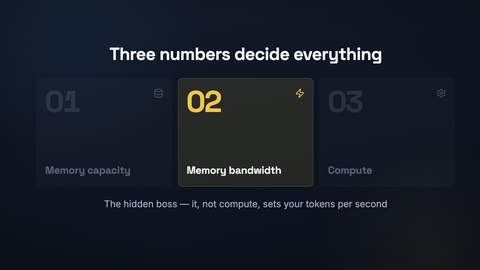
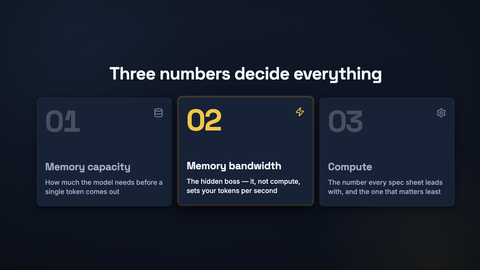
rundown: the detail moves into the card, and a beat moves ink instead of light
The detail line used to sit in a band under the row, on the argument that a card
which grew when it lit would reflow the row. The reasoning was right about
reflow and wrong about the remedy: a fixed slot inside the card, filled from the
first frame and merely brightened on the beat, does not reflow either — and a
paused frame is then a row of finished cards rather than a row of labels with
one caption underneath. The band was 110 pixels held empty for four beats out of
five.

The quiet cards keep their surface and lose only their ink. Fading a card to 0.5
works on a dark stage, where what recedes is a panel lighter than the ground; on
paper the card is the brightest thing in the frame, so the same fade bleaches it
and a row of four reads as one card and three that failed to load. Surface and
hairline now come from the theme's own per-mode tokens, so neither mode needs a
branch. The lit card lifts four pixels and takes a hard accent ring rather than a
blurred halo, which on white is just a grubby edge.

diff --git a/renderer/src/components/RundownScene.tsx b/renderer/src/components/RundownScene.tsx
@@ -1,6 +1,6 @@
 import {interpolate, spring, useCurrentFrame, useVideoConfig} from 'remotion';
 import {FPS} from '../types';
-import {ResolvedTheme, withAlpha} from '../theme/theme';
+import {ResolvedTheme, seat, withAlpha} from '../theme/theme';
 import {Stage, STAGE_W} from './Stage';
 import {iconFor} from './icons';
 
@@ -16,9 +16,22 @@ import {iconFor} from './icons';
 // a bullet, and at this size the row is legible as "three things" from across a
 // room, before any word has been read.
 //
-// The detail line lives under the row rather than inside the card, because a
-// card that grows when it lights would reflow the whole row and the eye would
-// lose its place. The row is fixed furniture; only brightness moves.
+// The detail line lives INSIDE the card, and it is there from the first frame.
+//
+// It used to sit under the row, on the argument that a card which grew when it lit
+// would reflow the row and the eye would lose its place. That reasoning was right
+// about reflow and wrong about where to put the line: a fixed slot inside the card,
+// filled from the start and merely brightened on the beat, does not reflow either —
+// and it means a paused frame is a row of finished cards rather than a row of
+// labels with one caption underneath. The band under the row was also 110 pixels
+// held empty for four beats out of five.
+//
+// What a beat moves is INK, never opacity. A card faded to 0.5 on a dark stage
+// recedes, because what fades is a panel lighter than the ground behind it; on
+// paper the card is the brightest thing in the frame, so the same fade bleaches it
+// into the page and a row of four reads as one card and three that failed to load.
+// The surface and its hairline come from the theme's own tokens, which are derived
+// per mode, so the card is a card in both and neither needs a branch here.
 
 const COL_W = Math.min(STAGE_W, 1620);
 
@@ -105,6 +118,16 @@ export const RundownScene: React.FC<{
               extrapolateLeft: 'clamp',
               extrapolateRight: 'clamp',
             });
+            // The lit card lifts four pixels on its own beat. Small on purpose:
+            // the seat shadow under it does the work, and a card that jumps reads
+            // as an interface responding to a click rather than as a shot cutting.
+            const rise =
+              i === current
+                ? interpolate(sinceStep, [0, 14], [0, 1], {
+                    extrapolateLeft: 'clamp',
+                    extrapolateRight: 'clamp',
+                  })
+                : 0;
             const c = lit ? theme.accentQuantity : theme.textMuted;
             return (
               <div
@@ -116,10 +139,19 @@ export const RundownScene: React.FC<{
                   padding: '38px 32px',
                   borderRadius: 16,
                   overflow: 'hidden',
-                  background: lit ? withAlpha(theme.accentQuantity, 0.11) : withAlpha(theme.text, 0.04),
-                  border: `1px solid ${lit ? withAlpha(theme.accentQuantity, 0.42) : withAlpha(theme.text, 0.1)}`,
-                  opacity: on * (lit || current < 0 ? 1 : 0.5),
-                  transform: `translateY(${(1 - on) * 18}px)`,
+                  background: theme.surface,
+                  border: `1.5px solid ${lit ? withAlpha(theme.accentQuantity, 0.6) : theme.surfaceBorder}`,
+                  boxShadow: [
+                    seat(theme, lit ? 'lifted' : 'resting'),
+                    // A hard ring rather than a blurred halo: on white a blurred
+                    // glow is a grubby edge, while a spread ring at low alpha
+                    // reads as the card being the one under discussion.
+                    lit ? `0 0 0 5px ${withAlpha(theme.accentQuantity, 0.16)}` : '',
+                  ]
+                    .filter(Boolean)
+                    .join(', '),
+                  opacity: on,
+                  transform: `translateY(${(1 - on) * 18 - rise * 4}px)`,
                   display: 'flex',
                   flexDirection: 'column',
                   justifyContent: 'space-between',
@@ -146,55 +178,39 @@ export const RundownScene: React.FC<{
                   </div>
                   <RowIcon name={it.icon} color={c} lit={lit} />
                 </div>
-                <div
-                  style={{
-                    position: 'relative',
-                    fontFamily: theme.fontDisplay,
-                    fontSize: 40,
-                    fontWeight: 700,
-                    lineHeight: 1.2,
-                    letterSpacing: -0.6,
-                    color: lit ? theme.text : theme.textMuted,
-                  }}
-                >
-                  {it.label}
+                <div style={{display: 'flex', flexDirection: 'column', gap: 18}}>
+                  <div
+                    style={{
+                      position: 'relative',
+                      fontFamily: theme.fontDisplay,
+                      fontSize: 40,
+                      fontWeight: 700,
+                      lineHeight: 1.2,
+                      letterSpacing: -0.6,
+                      color: lit ? theme.text : theme.textMuted,
+                    }}
+                  >
+                    {it.label}
+                  </div>
+                  {it.detail ? (
+                    <div
+                      style={{
+                        fontFamily: theme.fontBody,
+                        fontSize: 26,
+                        fontWeight: 500,
+                        lineHeight: 1.36,
+                        color: lit ? theme.text : theme.textMuted,
+                      }}
+                    >
+                      {it.detail}
+                    </div>
+                  ) : null}
                 </div>
               </div>
             );
           })}
         </div>
 
-        {/* The detail, under the row rather than inside the card — a card that
-            grew when it lit would reflow the row and the eye would lose its
-            place. */}
-        <div style={{minHeight: 110, marginTop: 42, textAlign: 'center'}}>
-          {current >= 0 && items[current]?.detail ? (
-            <div
-              style={{
-                fontFamily: theme.fontBody,
-                fontSize: 36,
-                lineHeight: 1.4,
-                color: theme.textMuted,
-                maxWidth: 1180,
-                margin: '0 auto',
-                opacity: interpolate(sinceStep, [3, 17], [0, 1], {
-                  extrapolateLeft: 'clamp',
-                  extrapolateRight: 'clamp',
-                }),
-                transform: `translateY(${
-                  (1 -
-                    interpolate(sinceStep, [3, 17], [0, 1], {
-                      extrapolateLeft: 'clamp',
-                      extrapolateRight: 'clamp',
-                    })) *
-                  12
-                }px)`,
-              }}
-            >
-              {items[current].detail}
-            </div>
-          ) : null}
-        </div>
       </div>
     </Stage>
   );
